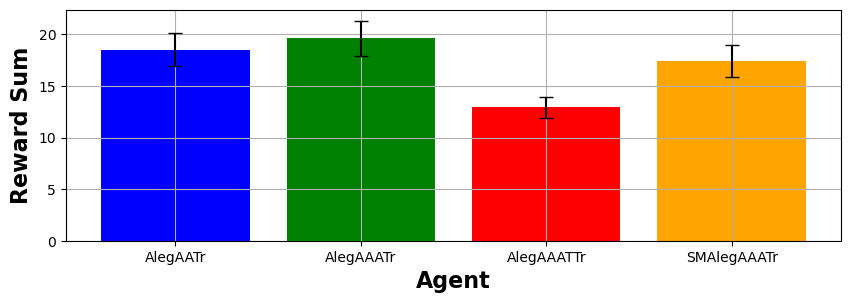
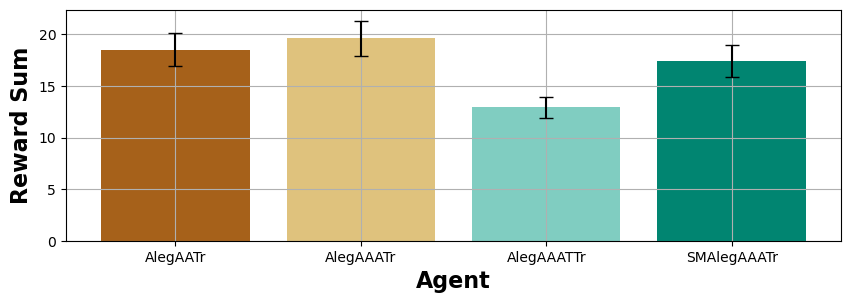
Improve plot colors for paper

diff --git a/analysis/stag_hare_stat_tests.py b/analysis/stag_hare_stat_tests.py
@@ -49,7 +49,7 @@ average_rewards_by_alg['algorithm'] = pd.Categorical(average_rewards_by_alg['alg
 average_rewards_by_alg = average_rewards_by_alg.sort_values('algorithm').reset_index(drop=True)
 plt.figure(figsize=(10, 3))
 plt.grid()
-bar_colors = ['blue', 'green', 'red', 'orange']
+bar_colors = ['#a6611a', '#dfc27d', '#80cdc1', '#018571']
 plt.bar(average_rewards_by_alg['algorithm'], average_rewards_by_alg['mean'],
         yerr=average_rewards_by_alg['sem'], capsize=5, color=bar_colors)
 plt.xlabel('Agent', fontsize=16, fontweight='bold')
@@ -63,7 +63,7 @@ average_rewards_by_alg['algorithm'] = pd.Categorical(average_rewards_by_alg['alg
 average_rewards_by_alg = average_rewards_by_alg.sort_values('algorithm').reset_index(drop=True)
 plt.figure(figsize=(10, 3))
 plt.grid()
-bar_colors = ['blue', 'green', 'red', 'orange']
+bar_colors = ['#a6611a', '#dfc27d', '#80cdc1', '#018571']
 plt.bar(average_rewards_by_alg['algorithm'], average_rewards_by_alg['mean'],
         yerr=average_rewards_by_alg['sem'], capsize=5, color=bar_colors)
 plt.xlabel('Agent', fontsize=16, fontweight='bold')

diff --git a/analysis/repeated_games_graphs.py b/analysis/repeated_games_graphs.py
@@ -232,7 +232,7 @@ for game_name in ['prisoners_dilemma_game', 'chicken_game', 'coordination_game']
     average_rewards_by_alg = average_rewards_by_alg.sort_values('Agent').reset_index(drop=True)
     plt.figure(figsize=(10, 3))
     plt.grid()
-    bar_colors = ['blue', 'green', 'red', 'orange']
+    bar_colors = ['#a6611a', '#dfc27d', '#80cdc1', '#018571']
     plt.bar(average_rewards_by_alg['Agent'], average_rewards_by_alg['mean'],
             yerr=average_rewards_by_alg['sem'], capsize=5, color=bar_colors)
     plt.xlabel('Agent', fontsize=16, fontweight='bold')

diff --git a/analysis/forex_crunch_numbers.py b/analysis/forex_crunch_numbers.py
@@ -174,7 +174,7 @@ def crunch_numbers() -> None:
 
         avgs = [arry.mean() for arry in all_profs]
         standard_errors = [arry.std() / len(arry) ** 0.5 for arry in all_profs]
-        bar_colors = ['blue', 'green', 'red', 'orange']
+        bar_colors = ['#a6611a', '#dfc27d', '#80cdc1', '#018571']
         plt.figure(figsize=(10, 3))
         plt.grid()
         plt.bar(names, avgs, yerr=standard_errors, capsize=5, color=bar_colors)
